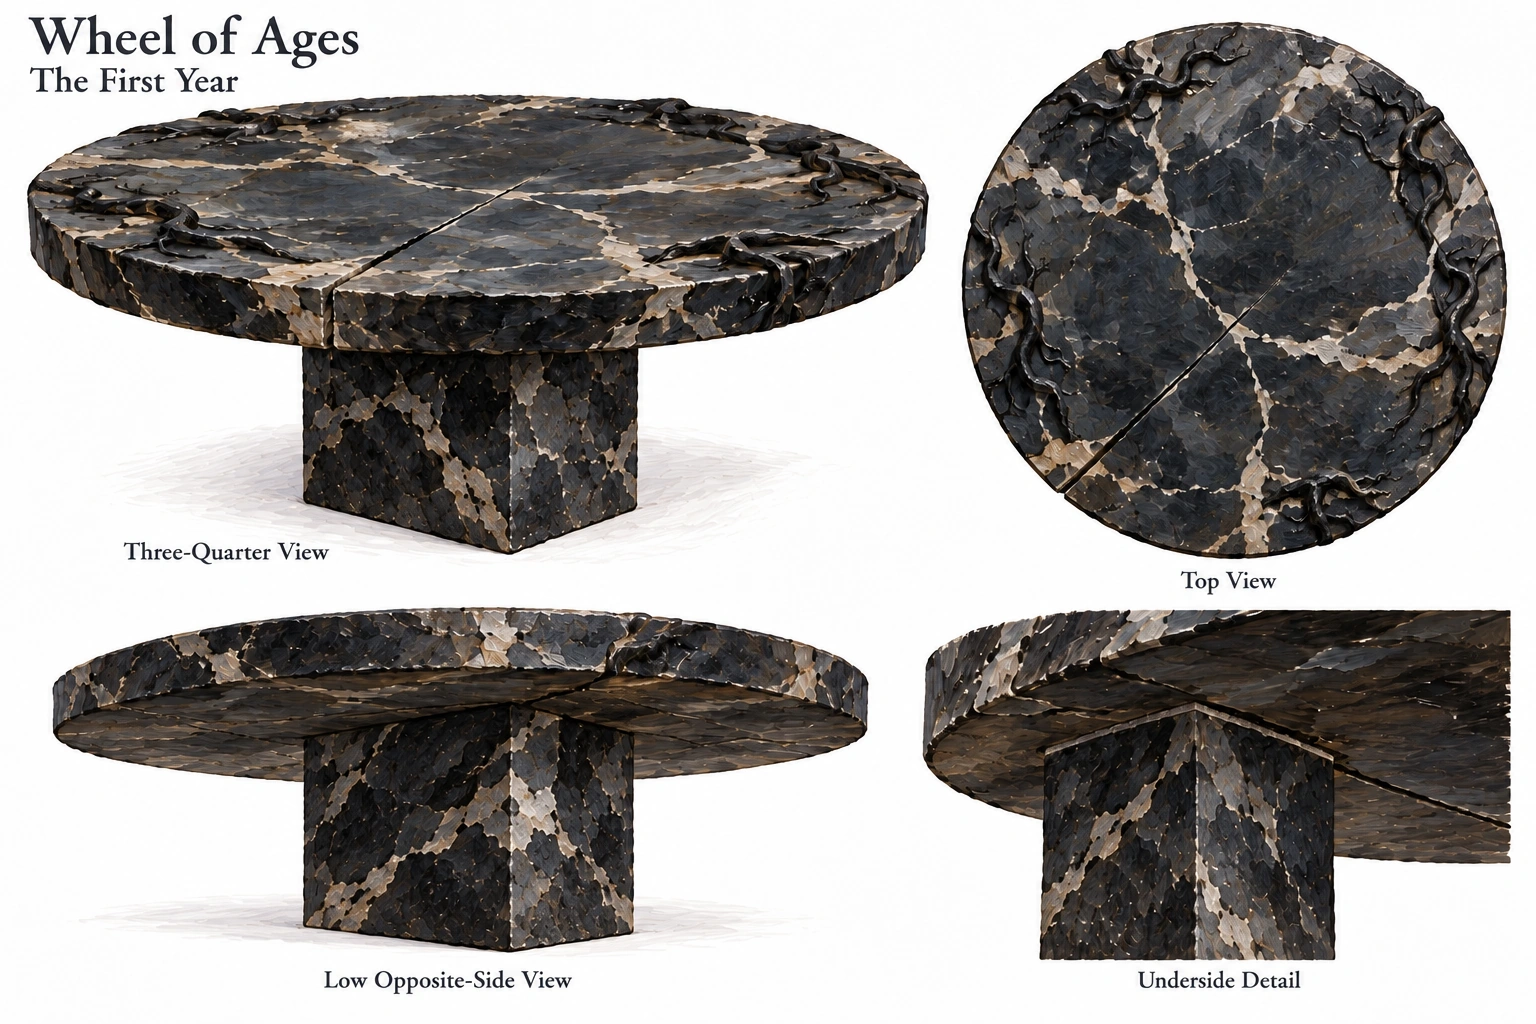
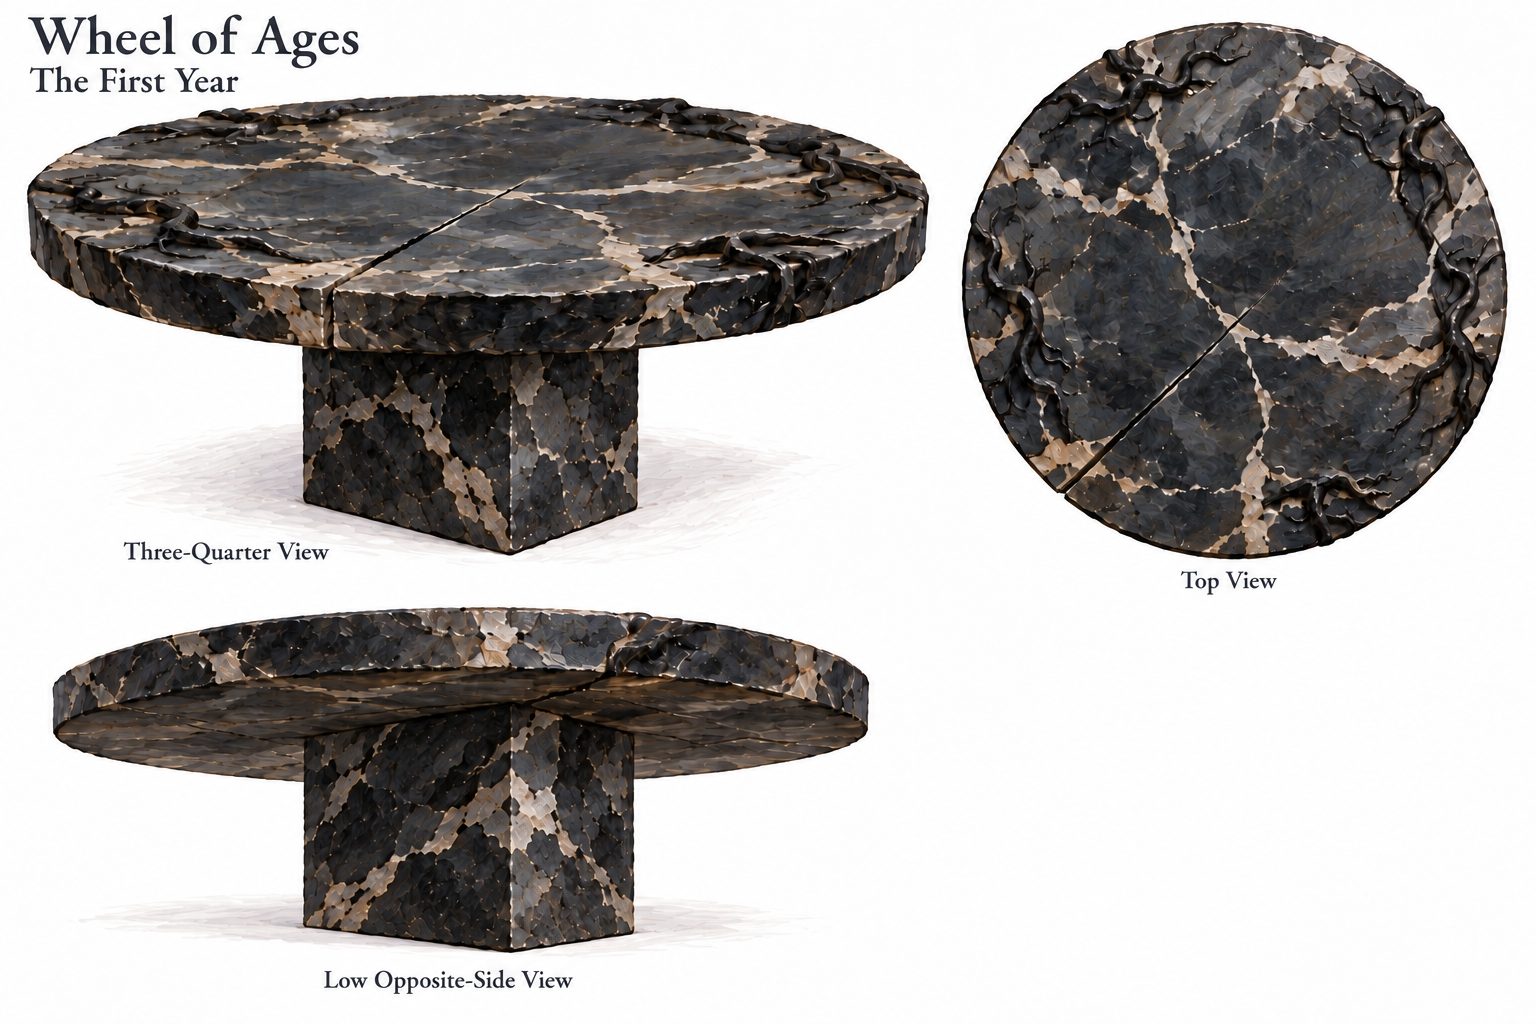
Remove the malformed fourth view from the Wheel of Ages sheet

diff --git a/stories/the-first-year/prompt.md b/stories/the-first-year/prompt.md
@@ -30,9 +30,13 @@ The user directed:
 
 the table works better with a one single large leg in middle.
 
+The user then attached the existing character sheet `wheel-of-ages.webp` and directed:
+
+the right bottom part of the image is still messed up just remove it; that 3 shot capture the table.
+
 ## Reference images
 
-None supplied. The original request and reference inventory were preserved before removal of the rejected package. No earlier prose or generated art is a template or reference for this replacement.
+None supplied with the original request. The original request and reference inventory were preserved before removal of the rejected package. No earlier prose or generated art is a template or reference for this replacement. The later attachment named `wheel-of-ages.webp` is this story's existing character sheet supplied as an edit target, rather than a new external reference; its earlier version remains in Git history.
 
 ## Audience and content
 
@@ -41,3 +45,5 @@ No audience was specified. The later direction explicitly requests an evil Wheel
 ## Explicit requirements and interpretation
 
 The Wheel oversees the months and rules and is ruled by the twelve named animals. The user found the previous story unaligned and explicitly requested a fresh replacement. The new direction specifies an evil Wheel trapping the spirit animals and thereby creating the twelve months. Later directions make the Wheel a stone table, make “Wheel” more metaphorical in the circle of time created, and give the table one single large central leg. That support supersedes the four-leg interpretation. Exact shape, markings, agency, and specific mechanism remain choices; the coordinator's stationary circular table serves the requested metaphor. Seasonal geography, viewpoint, length, exact intensity, resistance, and ending are also choices. Earlier voluntary founding and literal fleshy-wheel conceptions are superseded.
+
+The latest art direction removes the lower-right underside-detail view and its caption from the table sheet, retaining the three other views as sufficient coverage.

diff --git a/stories/the-first-year/notes.md b/stories/the-first-year/notes.md
@@ -27,3 +27,5 @@ Writer localized the support, its growth, the spring's position and Hawk's inwar
 All thirteen individual white-background character sheets and five location paintings were inspected in their saved pixels before the cover began. The corrected table sheet and border setting agree on one massive central stone pillar; the spring and underside seam remain legible. Natural animal identities, embedded shadow-roots, and the living stone replace the superseded organic Wheel conception. The paintings cover the border meeting, village orchard, returning river and shed-skin shrine. Art uses built-in image generation with the collection's Group of Seven inspired oil treatment; prompts and rejected candidates remain under the worktree's ignored tmp directory.
 
 The cover uses the accepted table, border setting, Cat and Fox references, with an inspected collection painting guiding brushwork. Its first returning dawn focuses on the two captives; the thread connects them to the others beyond the crop. A local image revision replaced a rope-like loop with the table's own veined stone pressing across embedded darkness. Artist and coordinator inspected the final saved JPEG: one massive central pillar, consistent animals, exact title once, and 864×1536 RGB. Finished prose and cover are rated Mature for sustained sadistic captivity and non-graphic torture; the image adds no graphic injury. The story remains non-canon and introduces no shared facts.
+
+The user found the table sheet's lower-right underside detail still malformed and asked to remove it, judging the other three views sufficient. A localized built-in image edit removed that view and caption into the white background; coordinator inspected the saved result and retained the three-quarter, top and low opposite-side views, their labels and central pedestal. The physical design is unchanged, so the accepted cover and Mature rating remain applicable. The earlier sheet is retained in Git history and the edit prompt under tmp/first-year-art/.
